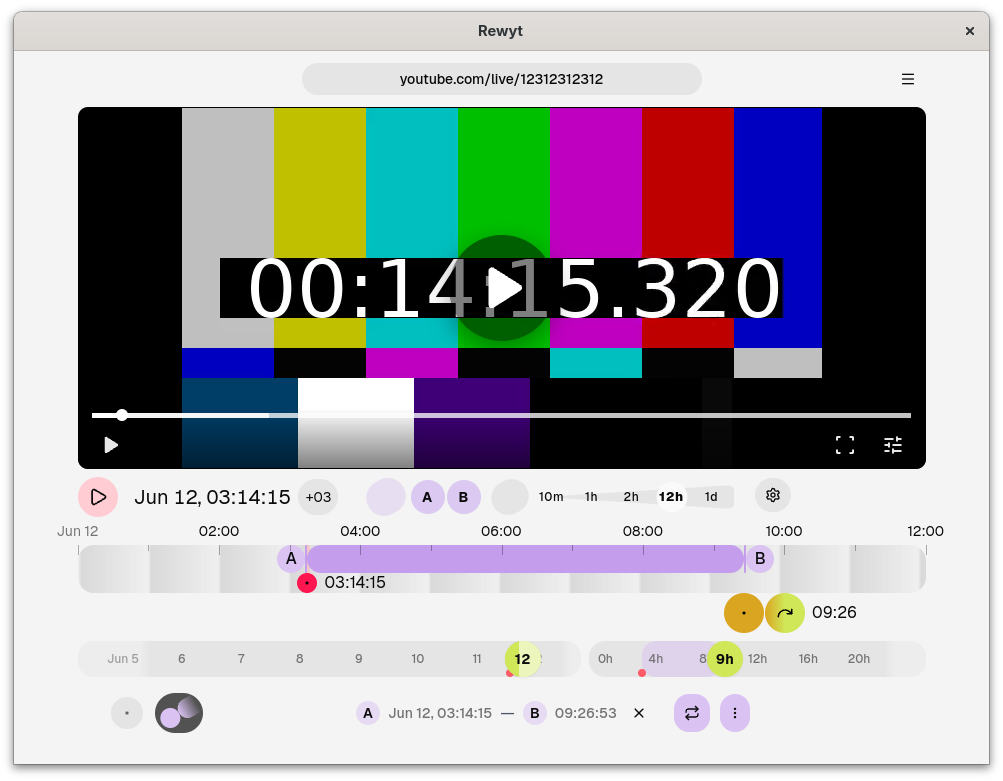
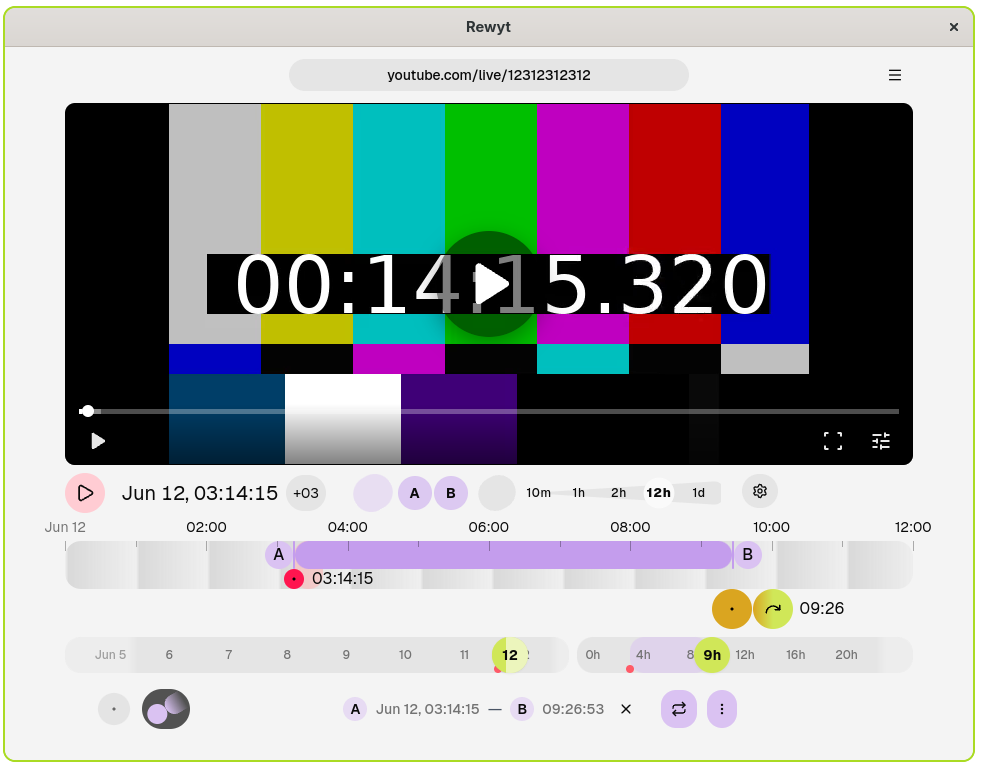
docs: update screenshot image

diff --git a/README.md b/README.md
@@ -11,15 +11,6 @@ with [Wails](https://github.com/wailsapp/wails/).
 Available on Linux, macOS, and Windows.
 
 ![Main screenshot](images/screenshot.png)
-
-## Etymology
-
-1. *verb* — to rewind and rewatch YouTube live streams
-2. *noun* — from Anglo-Saxon "rewyt",
-   [meaning](https://archive.org/details/analectaanglosax00tho/page/240/mode/2up?q=rewyt)
-   *navigation*, *voyage*, reflecting the act of exploring and revisiting
-   moments.
-
 ## Overview
 
 The app is built on a Go backend with a Svelte frontend. It uses our
